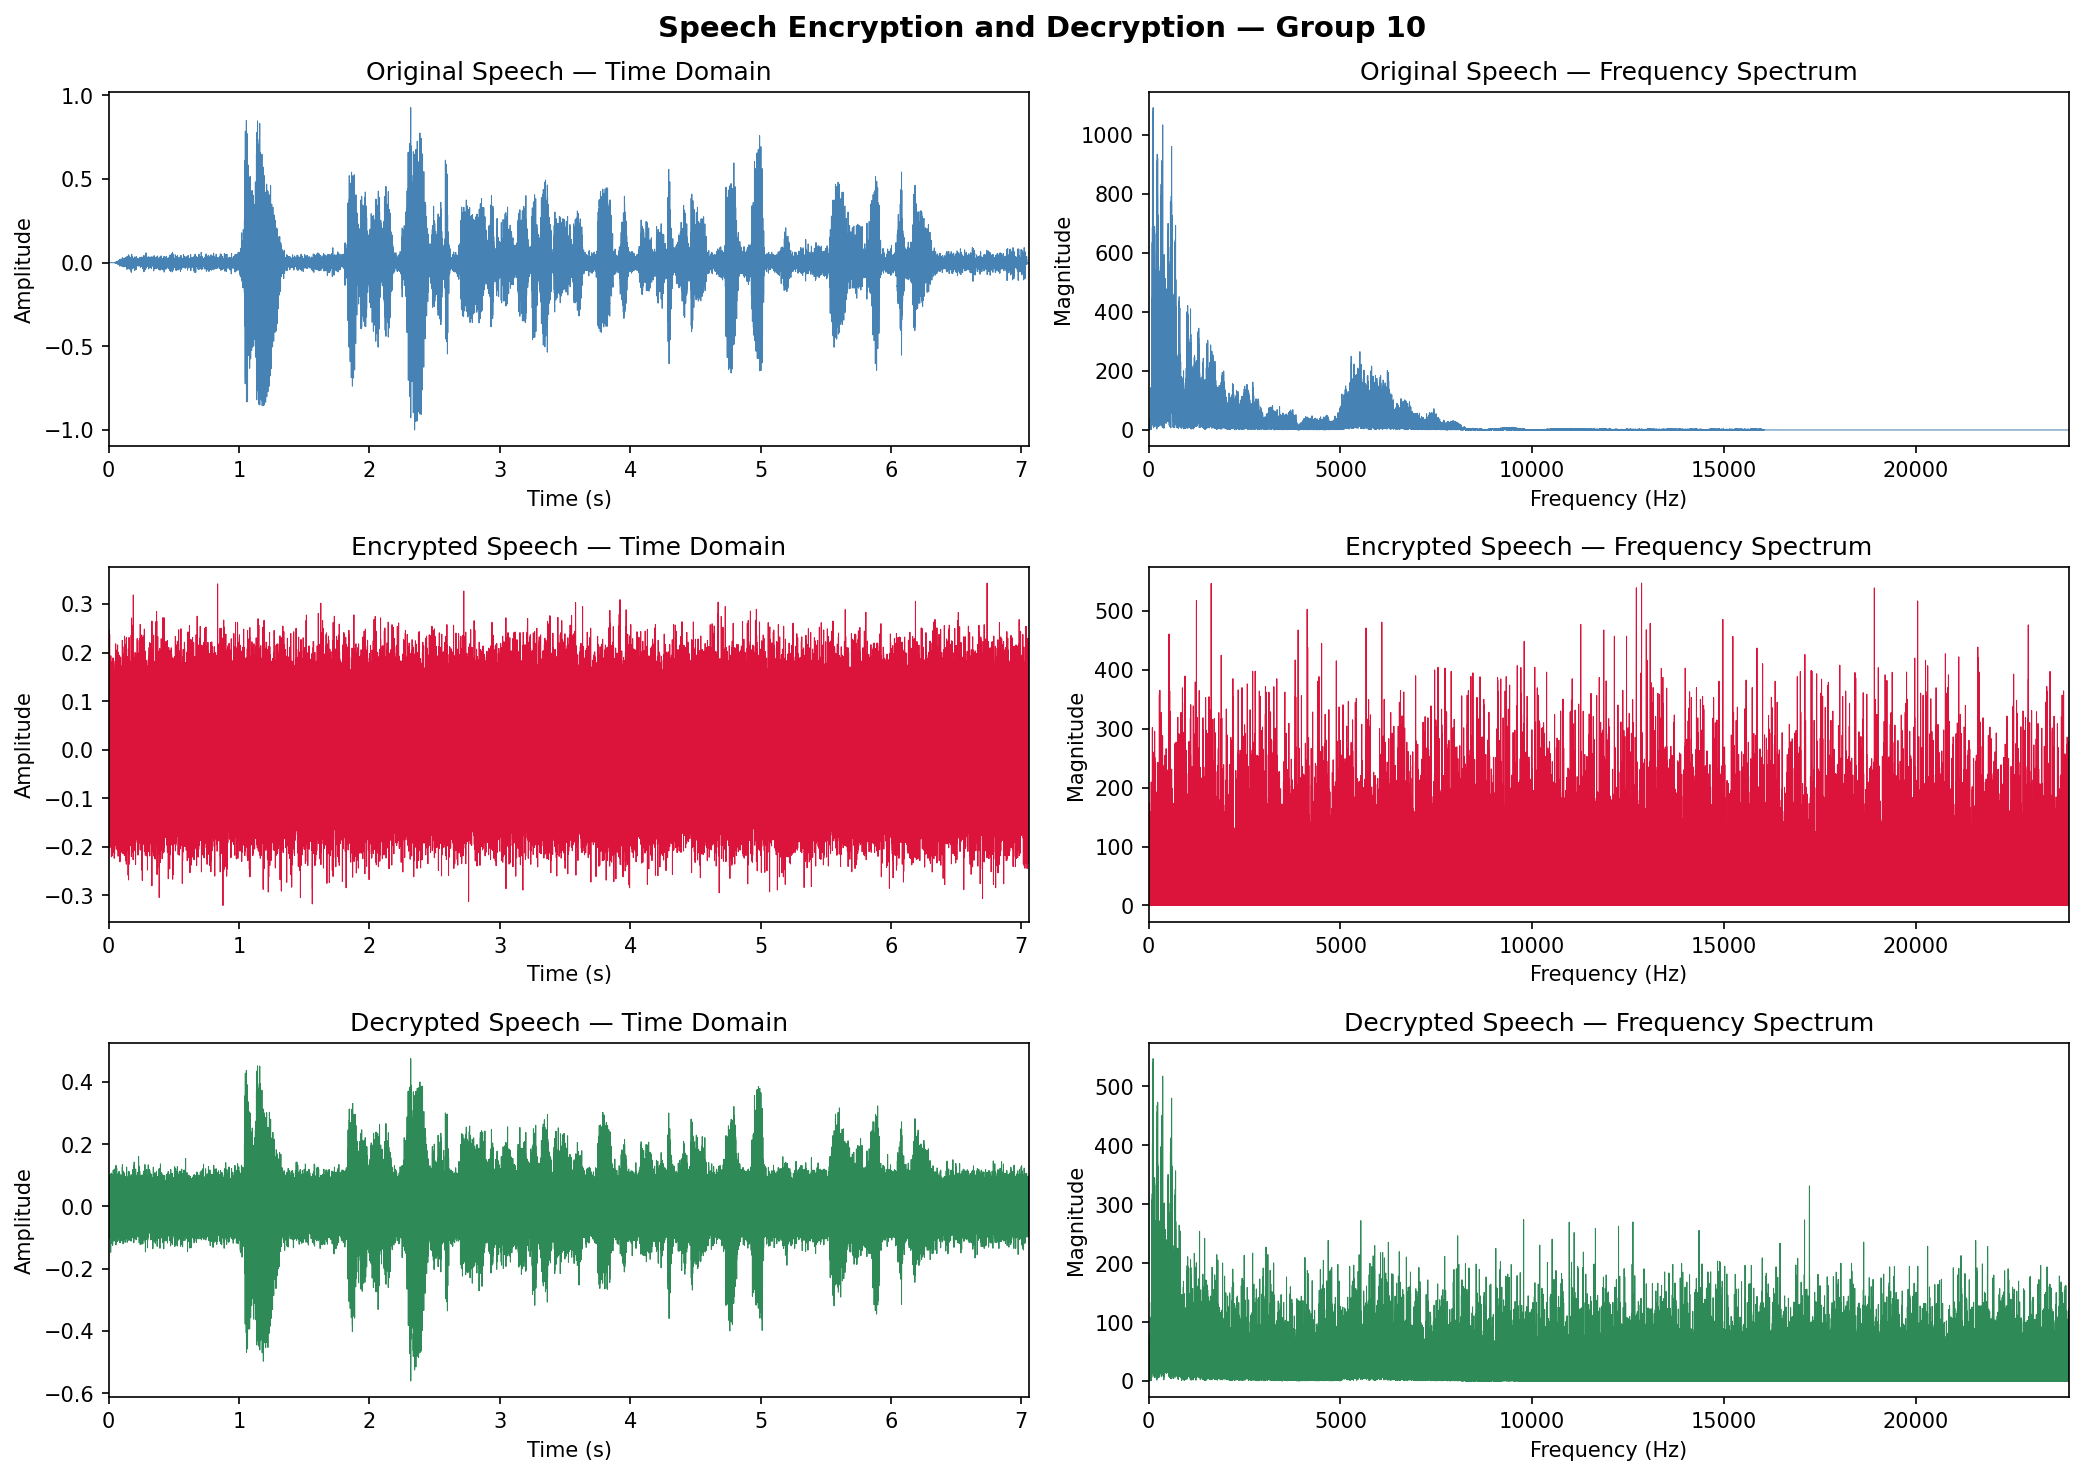
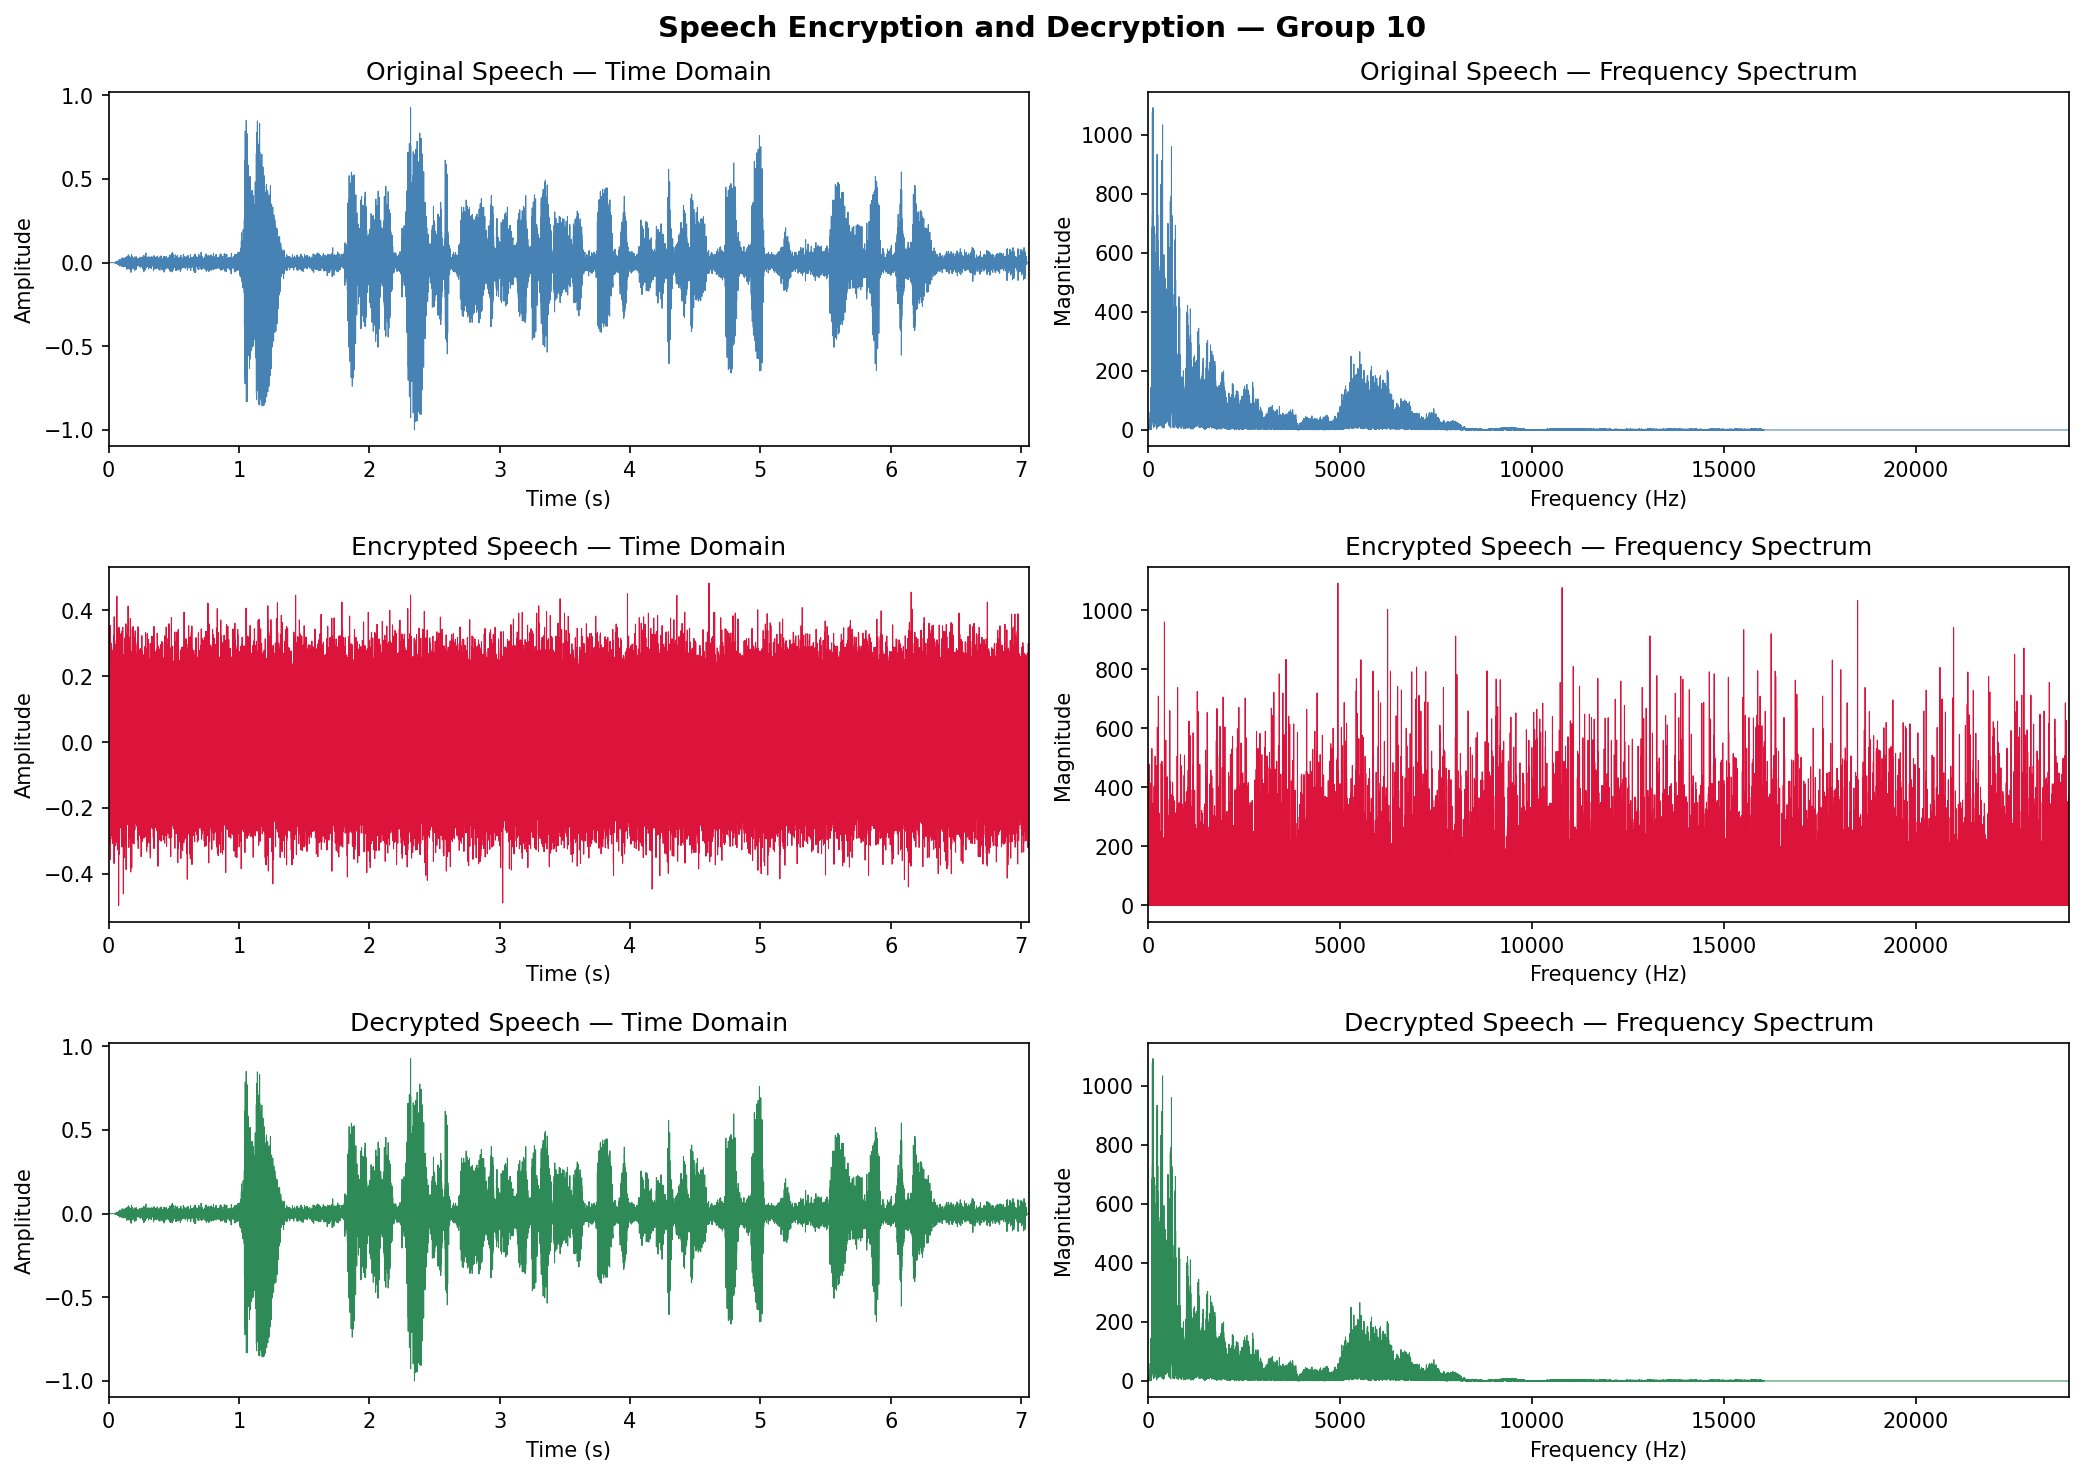
Update files

diff --git a/speech_encryption.py b/speech_encryption.py
@@ -37,31 +37,109 @@ def generate_test_signal(duration=5, sample_rate=16000):
 
 # ─────────────────────────────────────────────────────────────
 # STEP 2: ENCRYPT
+# Scramble only positive frequencies and mirror (conjugate symmetry).
+# This ensures IFFT produces a true real signal with no information loss.
 # ─────────────────────────────────────────────────────────────
 def encrypt(signal, key):
-    X = np.fft.fft(signal)                  # time → frequency domain
+    X = np.fft.fft(signal)
     N = len(X)
-    rng     = np.random.default_rng(key)
-    indices = rng.permutation(N)            # repeatable scramble pattern from key
-    X_scrambled = X[indices]                # rearrange frequency components
-    encrypted   = np.fft.ifft(X_scrambled).real   # back to time domain
-    return encrypted, indices
+    M = N // 2 - 1                          # number of positive freq bins to scramble
+
+    rng  = np.random.default_rng(key)
+    perm = rng.permutation(M)               # permutation of [0, 1, ..., M-1]
+
+    X_scrambled = X.copy()
+    X_scrambled[1:N//2] = X[perm + 1]      # rearrange positive frequencies
+    X_scrambled[N//2+1:] = np.conj(X_scrambled[1:N//2][::-1])  # mirror → real output
+
+    encrypted = np.fft.ifft(X_scrambled).real
+    return encrypted, perm
 
 
 # ─────────────────────────────────────────────────────────────
 # STEP 3: DECRYPT
 # ─────────────────────────────────────────────────────────────
-def decrypt(encrypted_signal, indices):
-    X_scrambled = np.fft.fft(encrypted_signal)
-    N = len(X_scrambled)
-    X_original = np.zeros(N, dtype=complex)
-    X_original[indices] = X_scrambled       # reverse the scrambling
-    decrypted = np.fft.ifft(X_original).real
+def decrypt(encrypted_signal, perm):
+    X_enc = np.fft.fft(encrypted_signal)
+    N     = len(X_enc)
+
+    inv_perm = np.argsort(perm)             # inverse permutation
+
+    X_dec = X_enc.copy()
+    X_dec[1:N//2] = X_enc[inv_perm + 1]    # restore original frequency order
+    X_dec[N//2+1:] = np.conj(X_dec[1:N//2][::-1])  # mirror
+
+    decrypted = np.fft.ifft(X_dec).real
     return decrypted
 
 
 # ─────────────────────────────────────────────────────────────
-# STEP 4: SAVE AUDIO
+# STEP 4: SNR CALCULATION
+# ─────────────────────────────────────────────────────────────
+def compute_snr(original, recovered):
+    min_len      = min(len(original), len(recovered))
+    original     = original[:min_len]
+    recovered    = recovered[:min_len]
+    noise        = original - recovered
+    signal_power = np.mean(original ** 2)
+    noise_power  = np.mean(noise ** 2)
+    if noise_power == 0:
+        return float('inf')
+    return 10 * np.log10(signal_power / noise_power)
+
+
+# ─────────────────────────────────────────────────────────────
+# STEP 5: WRONG KEY TEST
+# ─────────────────────────────────────────────────────────────
+def wrong_key_test(encrypted, correct_perm, wrong_key, sample_rate, output_dir):
+    N = len(encrypted)
+    M = N // 2 - 1
+
+    wrong_perm     = np.random.default_rng(wrong_key).permutation(M)
+    wrong_inv_perm = np.argsort(wrong_perm)
+
+    X_enc   = np.fft.fft(encrypted)
+    X_wrong = X_enc.copy()
+    X_wrong[1:N//2]  = X_enc[wrong_inv_perm + 1]
+    X_wrong[N//2+1:] = np.conj(X_wrong[1:N//2][::-1])
+    wrong_decrypted  = np.fft.ifft(X_wrong).real
+
+    save_audio(os.path.join(output_dir, "wrong_key_attempt.wav"), sample_rate, wrong_decrypted)
+
+    # Recompute correct decryption for plot
+    inv_perm   = np.argsort(correct_perm)
+    X_correct  = X_enc.copy()
+    X_correct[1:N//2]  = X_enc[inv_perm + 1]
+    X_correct[N//2+1:] = np.conj(X_correct[1:N//2][::-1])
+    correct_dec = np.fft.ifft(X_correct).real
+
+    t   = np.linspace(0, N / sample_rate, N)
+    fig, axes = plt.subplots(1, 2, figsize=(14, 4))
+    fig.suptitle("Decryption: Correct Key vs Wrong Key — Group 10",
+                 fontsize=13, fontweight="bold")
+
+    axes[0].plot(t, correct_dec, color="seagreen", linewidth=0.5)
+    axes[0].set_title("Correct Key — Recovered Speech")
+    axes[0].set_xlabel("Time (s)")
+    axes[0].set_ylabel("Amplitude")
+    axes[0].set_xlim([0, t[-1]])
+
+    axes[1].plot(t, wrong_decrypted, color="darkorange", linewidth=0.5)
+    axes[1].set_title("Wrong Key — Still Noise")
+    axes[1].set_xlabel("Time (s)")
+    axes[1].set_ylabel("Amplitude")
+    axes[1].set_xlim([0, t[-1]])
+
+    plt.tight_layout()
+    path = os.path.join(output_dir, "wrong_key_test.png")
+    plt.savefig(path, dpi=150, bbox_inches="tight")
+    plt.show()
+    print(f"Wrong key test plot saved → {path}")
+    print("Audio saved → wrong_key_attempt.wav  (should sound like noise)")
+
+
+# ─────────────────────────────────────────────────────────────
+# STEP 6: SAVE AUDIO
 # ─────────────────────────────────────────────────────────────
 def save_audio(filepath, sample_rate, signal):
     normalized = signal / np.max(np.abs(signal))
@@ -70,7 +148,7 @@ def save_audio(filepath, sample_rate, signal):
 
 
 # ─────────────────────────────────────────────────────────────
-# STEP 5: PLOT RESULTS
+# STEP 7: PLOT RESULTS
 # ─────────────────────────────────────────────────────────────
 def plot_results(sample_rate, original, encrypted, decrypted,
                  output_path="results.png"):
@@ -88,14 +166,12 @@ def plot_results(sample_rate, original, encrypted, decrypted,
     colors  = ["steelblue",   "crimson",      "seagreen"]
 
     for i, (sig, label, color) in enumerate(zip(signals, labels, colors)):
-        # Time-domain waveform
         axes[i][0].plot(t, sig, color=color, linewidth=0.5)
         axes[i][0].set_title(f"{label} Speech — Time Domain")
         axes[i][0].set_xlabel("Time (s)")
         axes[i][0].set_ylabel("Amplitude")
         axes[i][0].set_xlim([0, t[-1]])
 
-        # Frequency spectrum
         mag = np.abs(np.fft.fft(sig))[:half]
         axes[i][1].plot(freqs, mag, color=color, linewidth=0.5)
         axes[i][1].set_title(f"{label} Speech — Frequency Spectrum")
@@ -113,7 +189,6 @@ def plot_results(sample_rate, original, encrypted, decrypted,
 # MAIN
 # ─────────────────────────────────────────────────────────────
 if __name__ == "__main__":
-    # Load audio or fall back to test signal
     if os.path.exists(INPUT_FILE):
         sample_rate, original = load_audio(INPUT_FILE)
         print(f"Loaded: {INPUT_FILE}")
@@ -125,12 +200,21 @@ if __name__ == "__main__":
     print(f"Samples     : {len(original)}")
 
     # Encrypt
-    encrypted, scramble_indices = encrypt(original, KEY)
+    encrypted, perm = encrypt(original, KEY)
     print("Encryption complete.")
 
     # Decrypt
-    decrypted = decrypt(encrypted, scramble_indices)
+    decrypted = decrypt(encrypted, perm)
     print("Decryption complete.")
+
+    # SNR
+    snr = compute_snr(original, decrypted)
+    print(f"SNR (original vs decrypted) : {snr:.2f} dB")
+
+    # Wrong key test
+    WRONG_KEY = KEY + 1
+    print(f"\nRunning wrong key test (wrong key = {WRONG_KEY})...")
+    wrong_key_test(encrypted, perm, WRONG_KEY, sample_rate, OUTPUT_DIR)
 
     # Save audio files
     save_audio(os.path.join(OUTPUT_DIR, "original_speech_out.wav"), sample_rate, original)
@@ -138,6 +222,6 @@ if __name__ == "__main__":
     save_audio(os.path.join(OUTPUT_DIR, "decrypted_speech.wav"),    sample_rate, decrypted)
     print("Audio files saved: original_speech_out.wav, encrypted_speech.wav, decrypted_speech.wav")
 
-    # Plot and save
+    # Plot
     plot_results(sample_rate, original, encrypted, decrypted,
                  output_path=os.path.join(OUTPUT_DIR, "results.png"))